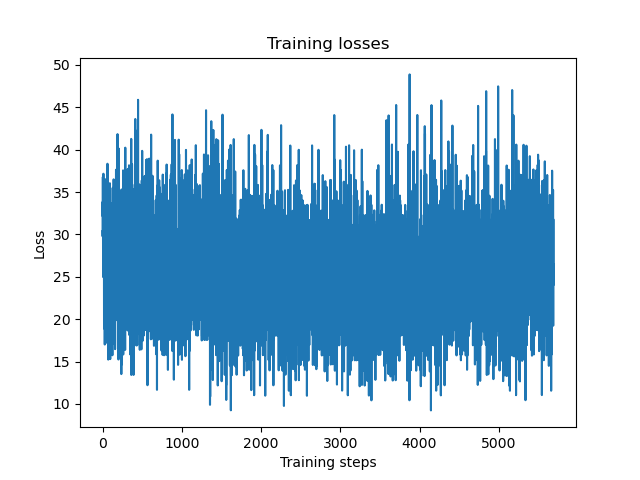
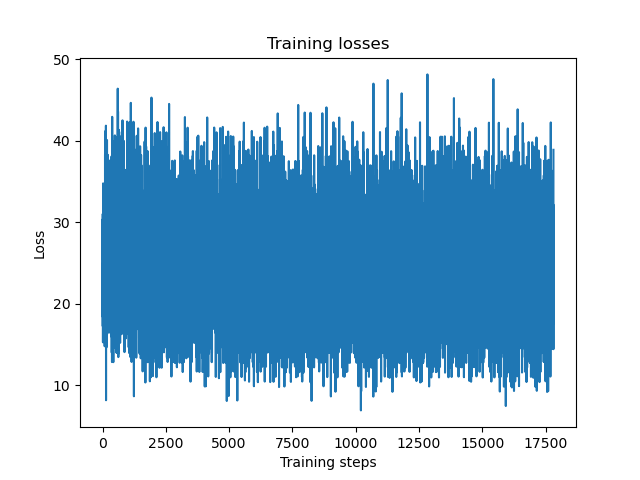
Data after 15.000 games

diff --git a/agent_code/meister_eckhart/config.py b/agent_code/meister_eckhart/config.py
@@ -30,7 +30,7 @@ BATCH_SIZE = 64
 
 # the number of training steps
 TRAIN_EPOCHS = 10_000
-ROUND_TO_PLOT = 5000 #default 200
+ROUND_TO_PLOT = 15000 #default 200
 SAVE_MODEL_EVERY = 1000
 UPDATE_TARGET_EVERY = 10
 
